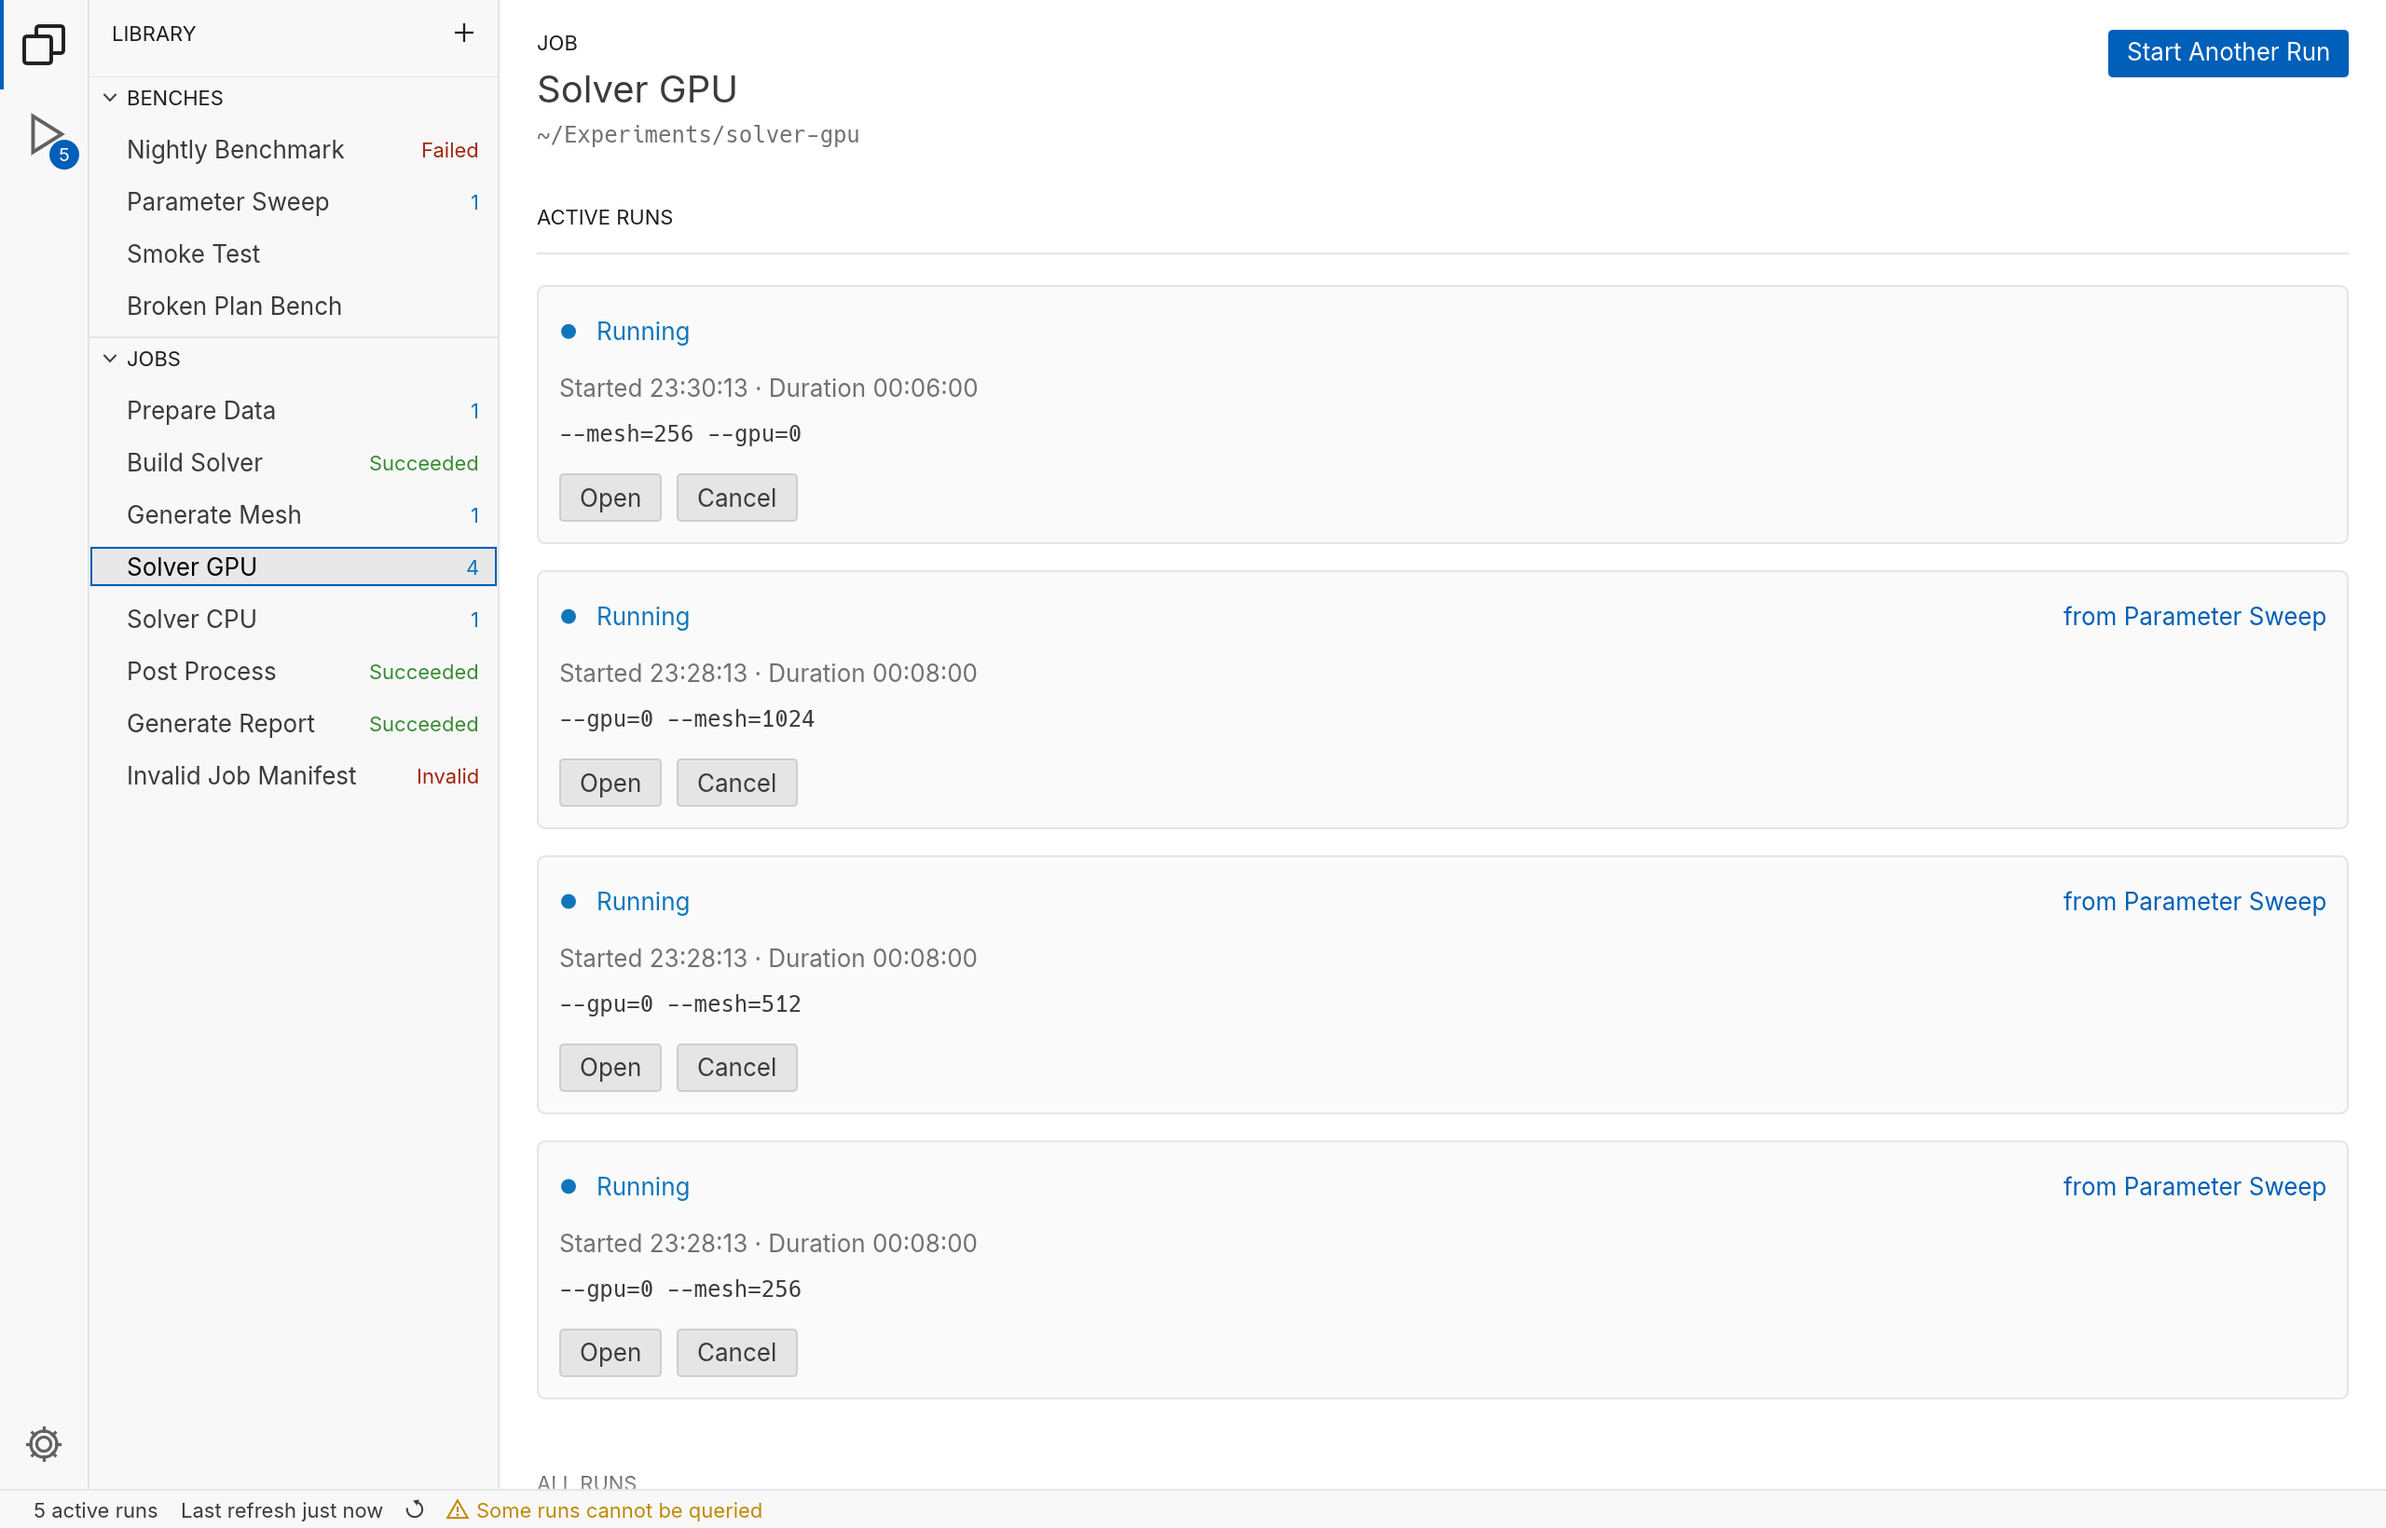
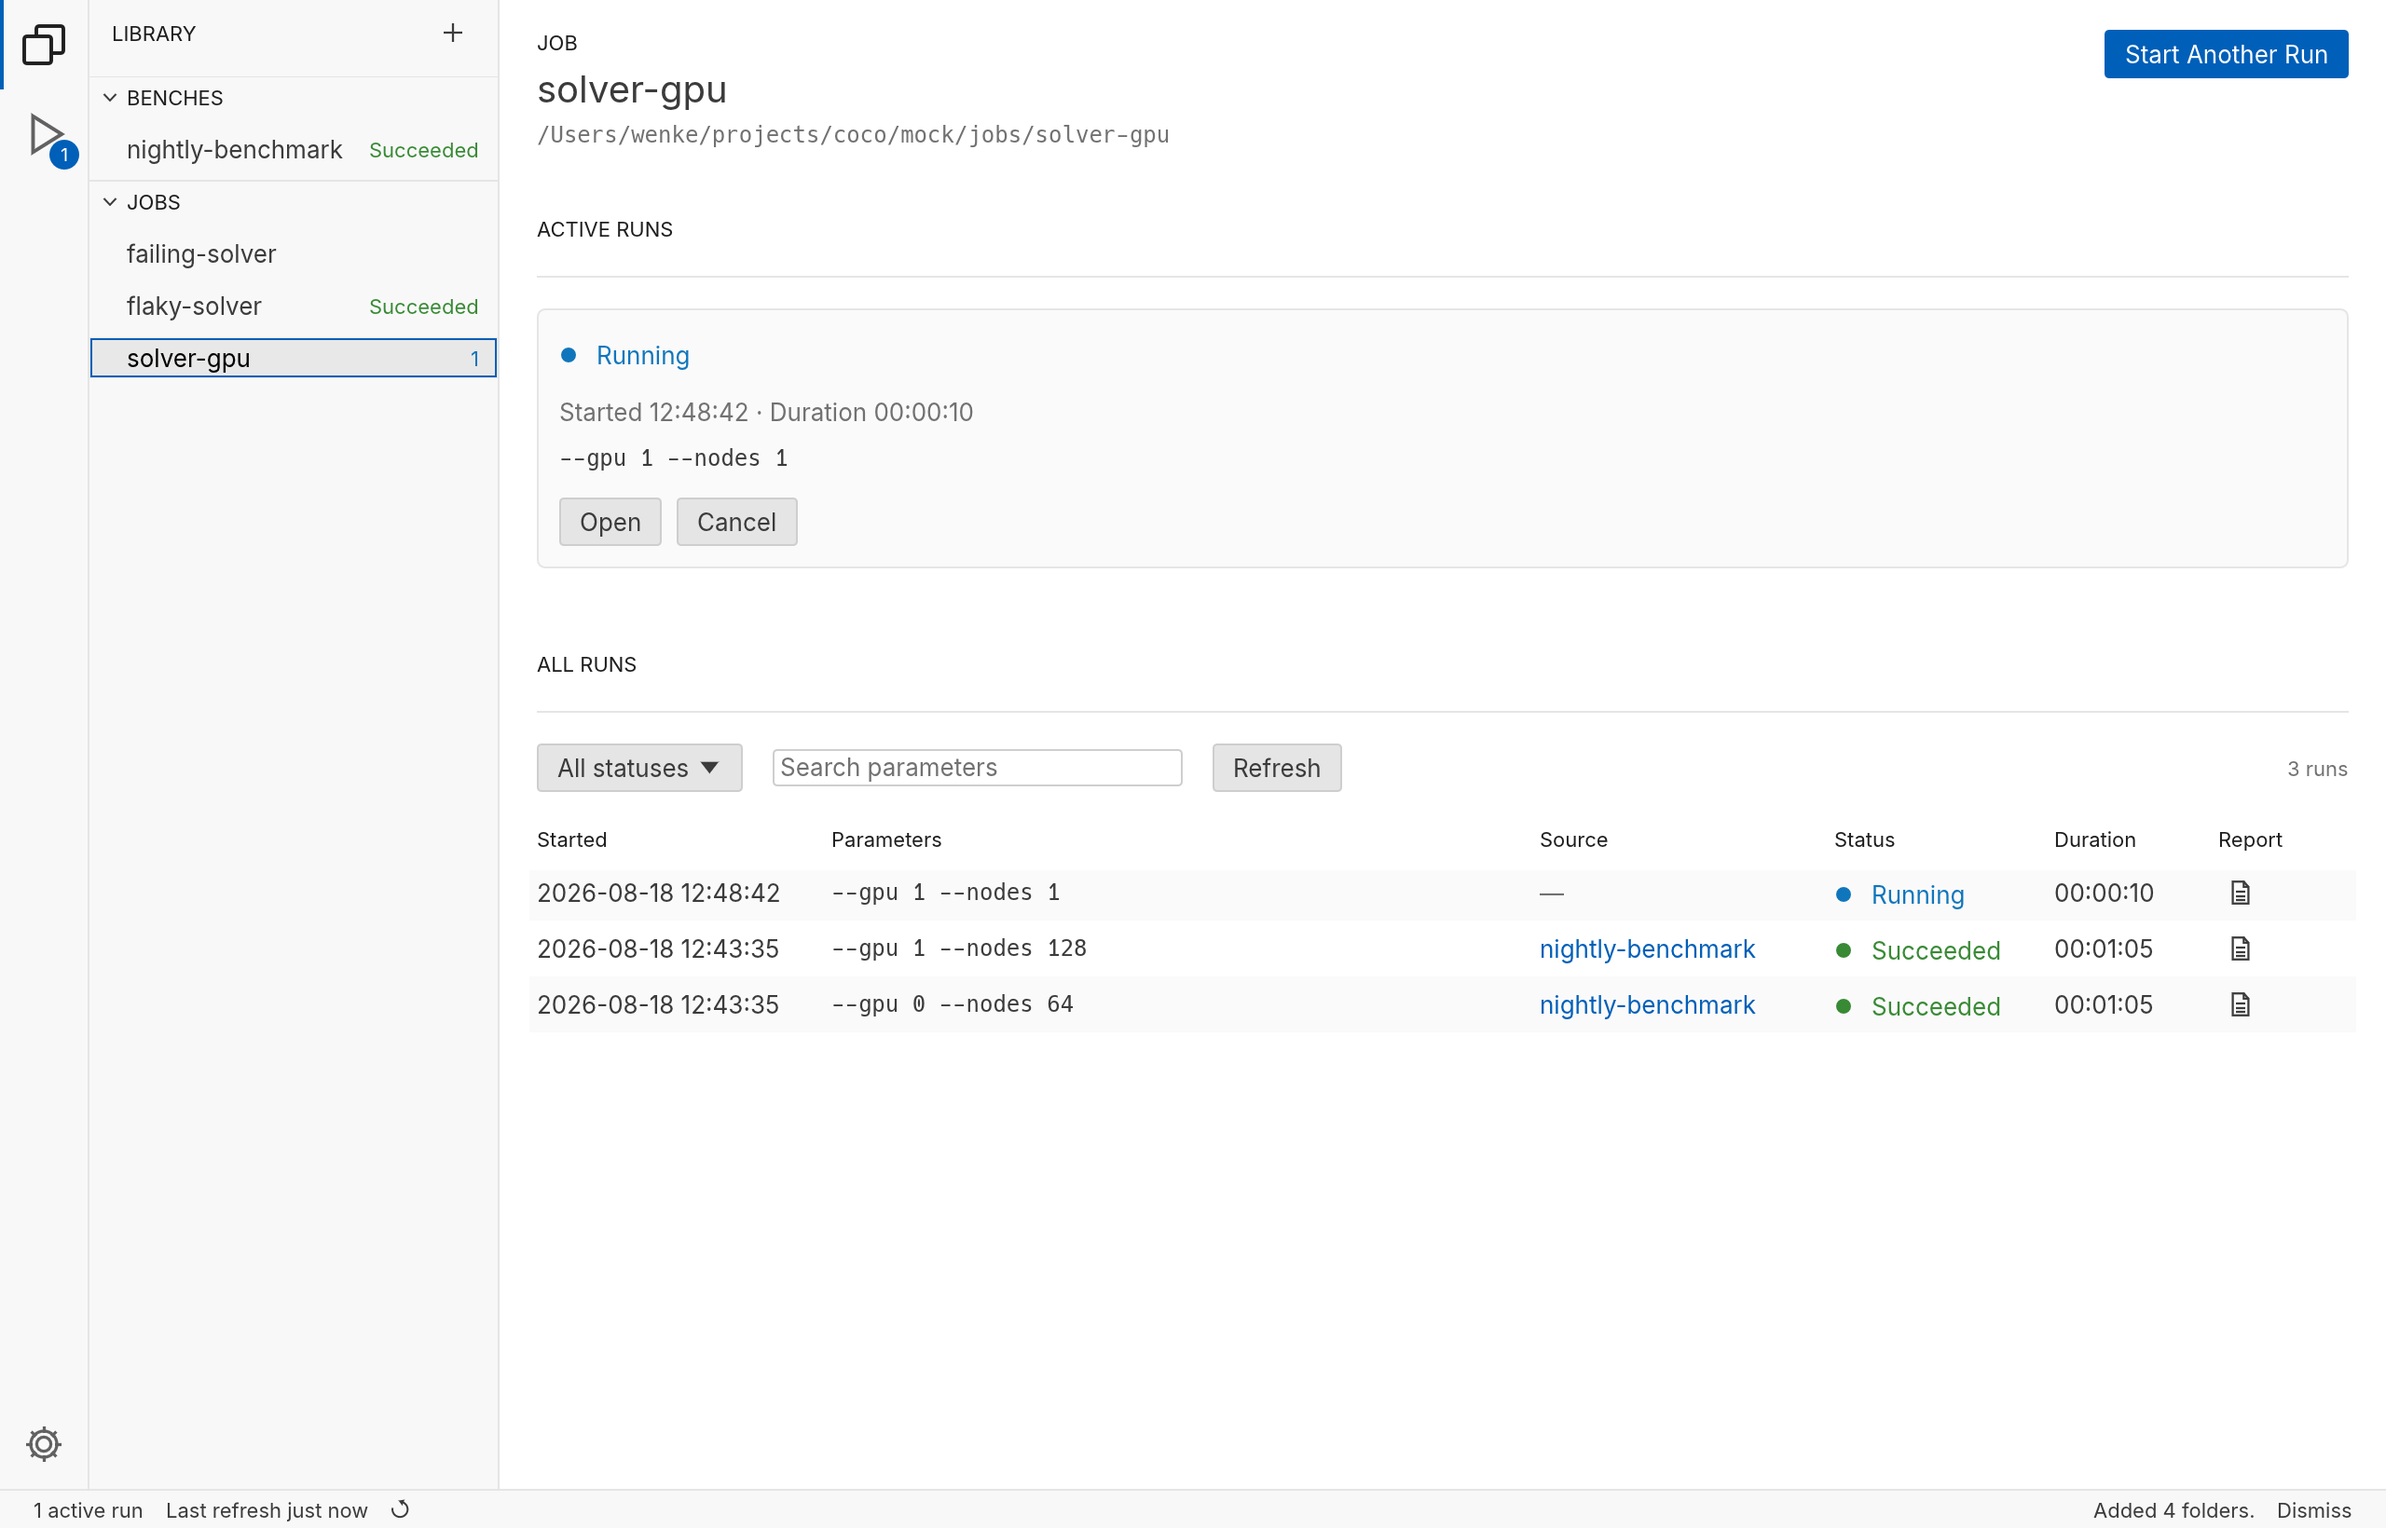
Make the last-used values an explicit action in the spec, and reshoot the references
§15.3 said the modal should prefill from the last run, from manifest
defaults, then from nothing. The application does none of that: every field
opens empty and the last run's values arrive only when the user asks for
them, through the history icon in the PARAMETERS row (convention §2.1). A
prefilled field is indistinguishable from one the user filled, and a start
is a job on a cluster — restarting last night's sweep because the modal
remembered it is a mistake this must not be able to make for you.

The rest of the spec followed the same assumption and is corrected with it:
entities no longer claim "default parameters", which never existed; the
§15.1 example drew the old single-field modal with a "Last used:" block, and
now draws the real one; §32 no longer has the UI persisting parameters,
since the engine's store owns the values each experiment last used and the
folders own their records.

The reference screenshots were rendered from the mock fixtures that were
deleted two commits ago and showed experiments that no longer exist. They
are regenerated from the bundled mock library through the restored
screenshot example.

diff --git a/Experiment Pipeline Manager.md b/Experiment Pipeline Manager.md
@@ -59,8 +59,7 @@ A Job has:
 - A display name.
 - A folder path.
 - Manifest validity state.
-- Default parameters.
-- Last-used parameters.
+- The values its last run used, for the explicit fill action (§15.3).
 - Zero or more runs.
 - Zero or more active runs.
 - Historical reports.
@@ -101,8 +100,7 @@ A Bench has:
 - A display name.
 - A folder path.
 - Manifest validity state.
-- Default parameters.
-- Last-used parameters.
+- The values its last run used, for the explicit fill action (§15.3).
 - Zero or more Bench runs.
 
 A Bench has **no** static job list. Its calls are unknown until a run starts.
@@ -1227,18 +1225,19 @@ Start is pressed. Do not display a fabricated job list.
 Example:
 
 ```text
-Start Job
+START JOB
+solver-gpu
 
-Solver GPU
+PARAMETERS  (all required)                          [history]
 
-Parameters
-[ --mesh=256 --gpu=0                         ]
+  nodes  [ required                                        ]
+  gpu    [ required                                        ]
 
-Last used:
---mesh=128 --gpu=0
-
-Cancel                                  Start Job
+Cancel                                            Start Job
 ```
+
+Every field opens empty, and `[history]` is the icon action that fills them from
+the last run (§15.3). Start stays disabled until each one has a value.
 
 ### 15.2 Parameter Semantics
 
@@ -1263,13 +1262,20 @@ The engine refuses a blank value exactly as it refuses a missing one, so a start
 reaching it by any other route — a Bench dispatching a member, say — is refused
 the same way.
 
-### 15.3 Default Value
+### 15.3 No Prefill
 
-When the modal opens, populate the field using this priority:
+The modal opens with every field empty. It does not prefill from the last run,
+from the manifest, or from anything else — every declared parameter is supplied
+by hand, deliberately, each time (convention §2.1).
 
-1. Last-used parameters for this entity.
-2. Manifest/mock default parameters.
-3. Empty string.
+Reusing the last run's values is an explicit action, not a default: the
+`PARAMETERS` section carries a history icon that fills the fields and stops
+there (§15.1). It appears only once the experiment has been started at least
+once, and the user still sees, edits and submits the values themselves.
+
+A prefilled field is indistinguishable from one the user filled, and a start is
+a job on a cluster. Restarting *last night's* sweep because the modal
+remembered it is a mistake this application must not be able to make for you.
 
 ### 15.4 Submission
 
@@ -2351,15 +2357,16 @@ Persist:
 - Last selected entity ID.
 - Last non-report route when valid.
 - Status filter.
-- Optional last-used parameters.
 
 Do not persist:
 
-- Active mock runs.
-- Mock clock state.
+- Anything about runs. The experiment folders hold their own records, and the
+  engine's store holds the run counter and the values each experiment last used
+  (convention §5) — the UI keeps no copy of either.
 - Temporary modals.
 - Temporary error banners.
-- Developer-control state unless convenient.
+- Parameter drafts. A modal is a temporary action; a draft survives a failed
+  submission (§31) and nothing longer.
 
 If persisted state is invalid after fixtures change, fall back safely.
 
